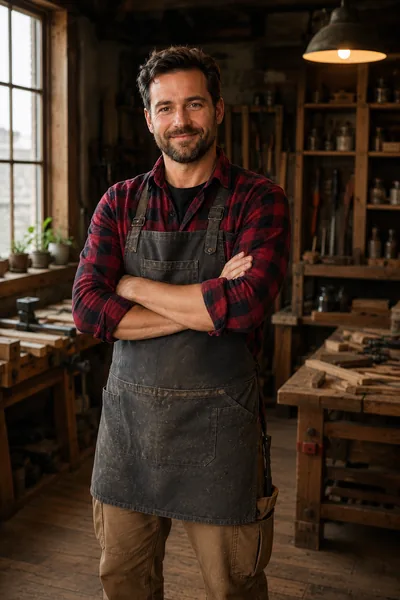
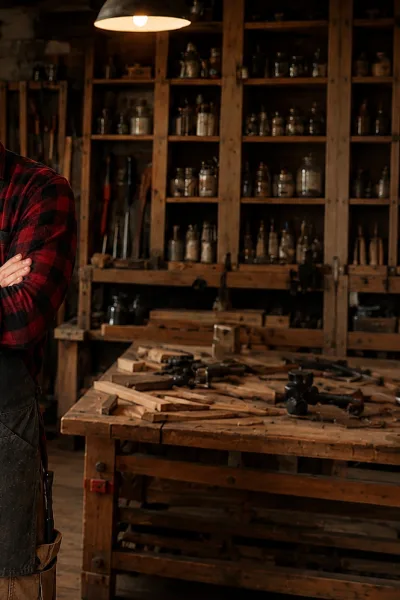
polish(lp): hero — nouvelle photo artisan + fade 4 cotes asymetrique
- public/images/hero-artisan-{400,800}.webp : nouvelle source plus
  qualitative (cadrage et lumiere mieux adaptes a un fond blanc),
  re-encodee aux memes dimensions (400x600 mobile / 1080x680 desktop).
- Hero.tsx : remplace l'overlay horizontal seul par 2 overlays blancs
  superposes (couche 2 horizontal + couche 3 vertical bas-only). Le
  fade horizontal est asymetrique : 14% a gauche pour fondre vers la
  zone texte, 6% a droite car la FormCard recouvre deja la zone. Le
  fade vertical est asymetrique aussi : zero en haut (le visage reste
  net), descend vers blanc opaque a 100% en bas pour fondre les pieds
  dans le sol. Resultat : plus de demarcation visible en haut/bas, et
  voile blanc cantonne aux bords extremes.

diff --git a/src/components/ds/Hero.tsx b/src/components/ds/Hero.tsx
@@ -242,13 +242,27 @@ export function Hero() {
               backgroundRepeat: "no-repeat",
             }}
           />
-          {/* couche 2 : overlay blanc qui masque les bords. Le centre est
-              transparent (photo visible), les cotes sont blancs (= bg). */}
+          {/* couche 2 : overlay blanc horizontal *asymetrique*. Cote gauche :
+              fade etendu sur 14% pour fondre proprement vers le bg blanc de
+              la zone texte. Cote droit : fade tres court sur 6% car la
+              FormCard recouvre deja cette zone -> pas la peine de manger de
+              la photo avec un voile inutile. */}
           <div
             className="absolute inset-0"
             style={{
               background:
-                "linear-gradient(to right, #ffffff 0%, rgba(255,255,255,0.80) 3%, rgba(255,255,255,0.30) 9.5%, rgba(255,255,255,0.065) 16%, rgba(255,255,255,0) 22%, rgba(255,255,255,0) 78%, rgba(255,255,255,0.065) 84%, rgba(255,255,255,0.30) 90.5%, rgba(255,255,255,0.80) 97%, #ffffff 100%)",
+                "linear-gradient(to right, #ffffff 0%, rgba(255,255,255,0.65) 2%, rgba(255,255,255,0.30) 5%, rgba(255,255,255,0.10) 9%, rgba(255,255,255,0.02) 12%, rgba(255,255,255,0) 14%, rgba(255,255,255,0) 94%, rgba(255,255,255,0.20) 97%, rgba(255,255,255,0.65) 99%, #ffffff 100%)",
+            }}
+          />
+          {/* couche 3 : overlay blanc vertical *asymetrique*. Pas de fade
+              en haut (le cadrage de la photo n'en a pas besoin), uniquement
+              vers le bas pour faire fondre les pieds de l'artisan dans le
+              sol blanc. */}
+          <div
+            className="absolute inset-0"
+            style={{
+              background:
+                "linear-gradient(to bottom, rgba(255,255,255,0) 0%, rgba(255,255,255,0) 70%, rgba(255,255,255,0.18) 80%, rgba(255,255,255,0.50) 88%, rgba(255,255,255,0.85) 95%, #ffffff 100%)",
             }}
           />
         </div>
